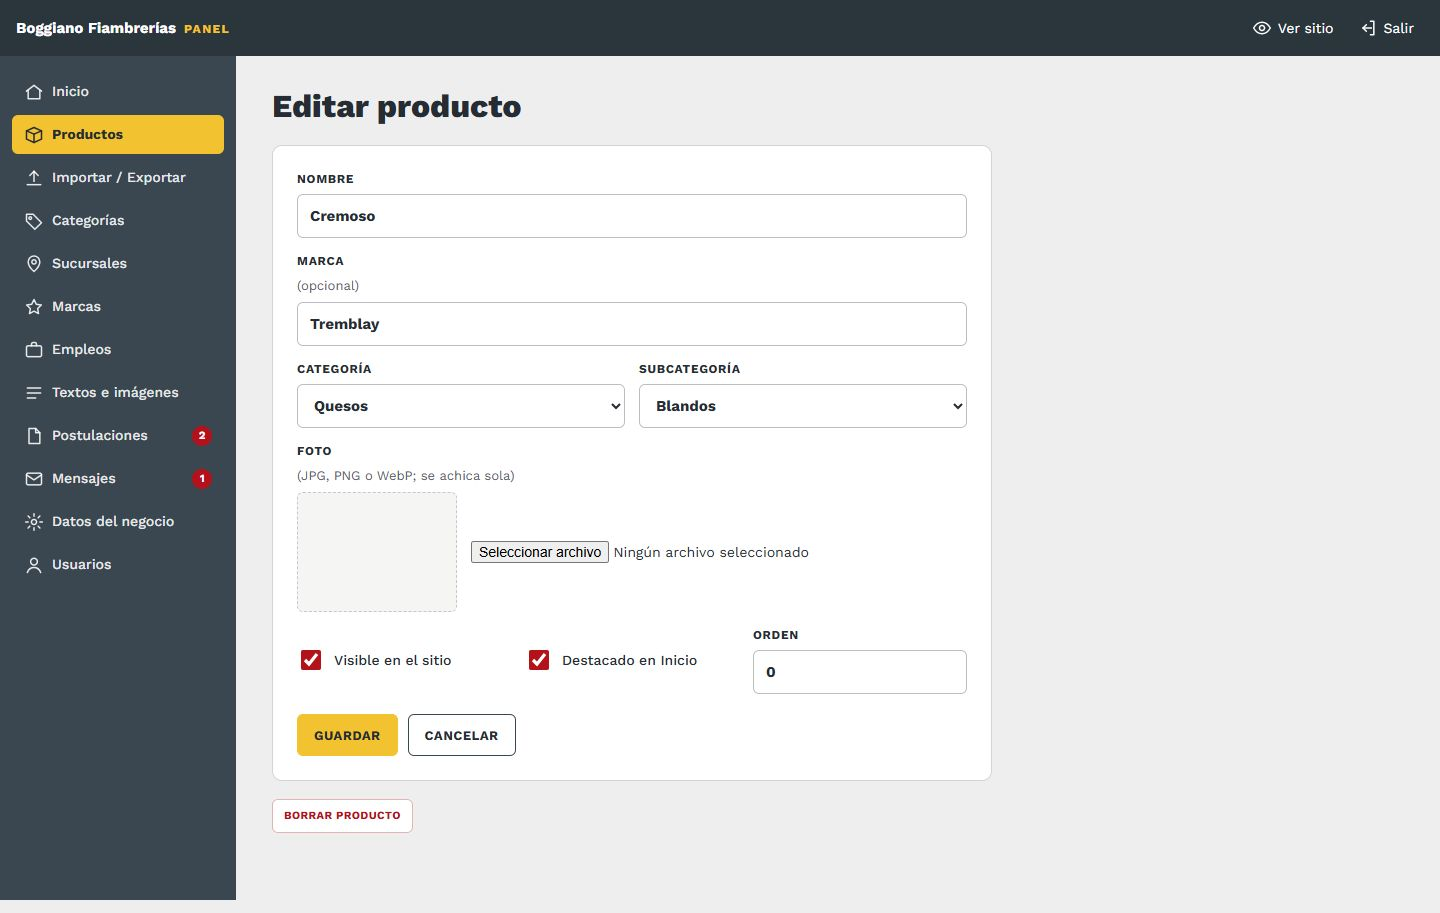
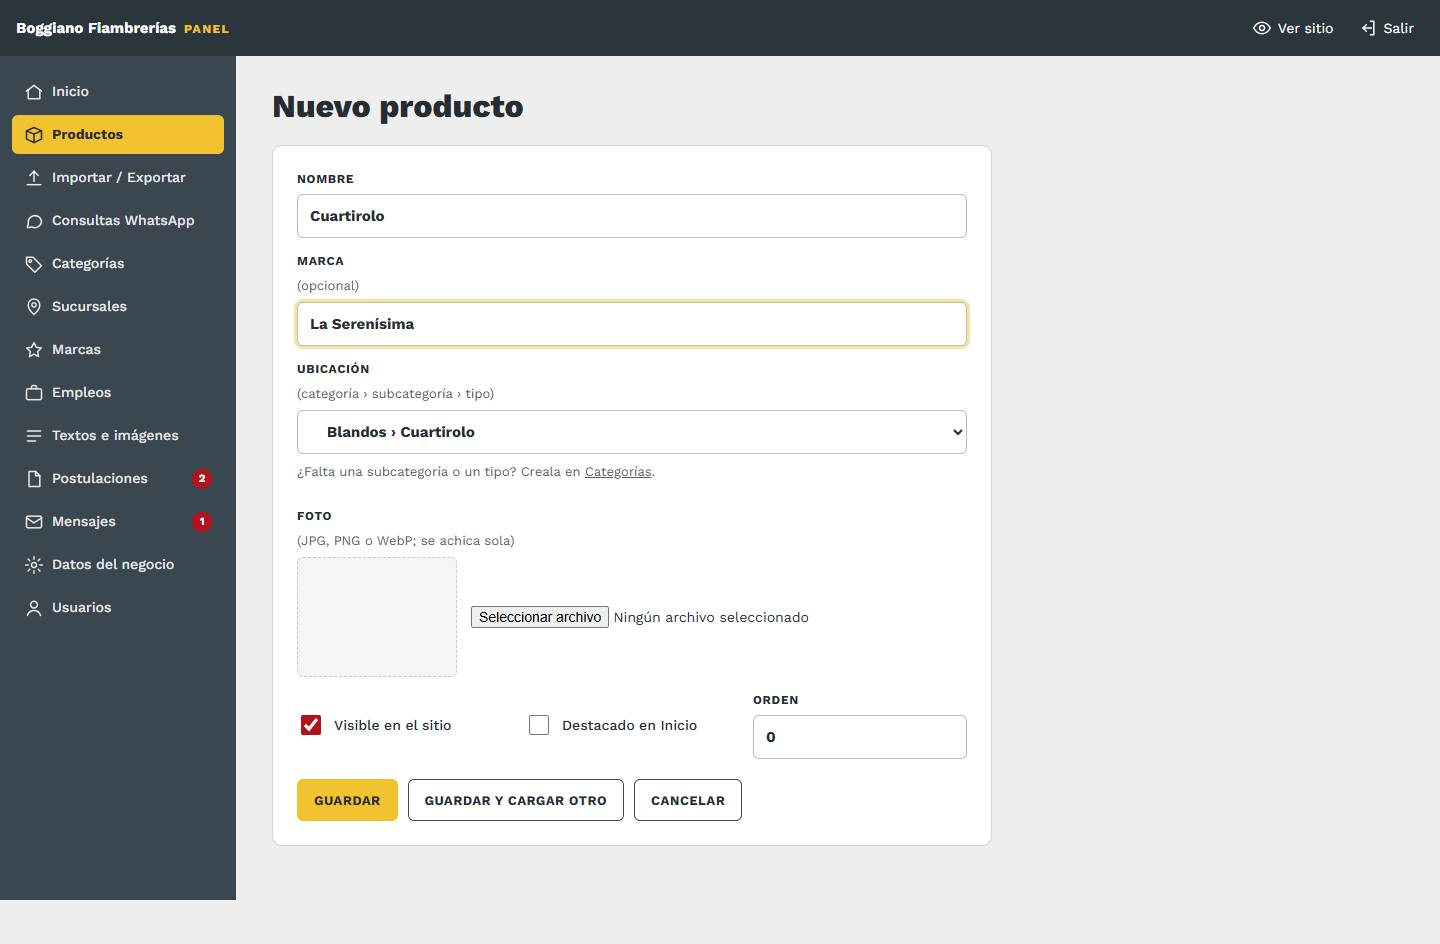
Guía: productos en tres niveles (categoría › subcategoría › tipo), árbol plegable, acciones en lote, columna tipo y textos agrupados

diff --git a/guia/03-productos.md b/guia/03-productos.md
@@ -6,14 +6,28 @@
 
 ![Lista de productos](../img/productos.jpg)
 
-## La lista
+## La lista: un árbol plegable
 
-- **Buscar:** por nombre o marca.
-- **Filtros:** por categoría, y las casillas **Sin foto** y **Ocultos** para ver solo esos.
+Los productos están ordenados como en el sitio, en **tres niveles**: **categoría › subcategoría › tipo** (ej. Quesos › Blandos › Cremoso). Cada nivel se abre y se cierra tocando su nombre, y muestra cuántos productos tiene. Así no hace falta scrollear todo el catálogo: abrís solo la parte que estás tocando.
+
+- **Abrir todo / Cerrar todo:** arriba a la derecha. El panel **recuerda qué dejaste abierto** para la próxima vez.
+- **+ Nuevo acá:** en cada nivel. Abre un producto nuevo que ya viene con esa categoría, subcategoría o tipo elegidos.
+- **Buscar:** por nombre o marca. Con las casillas **Sin foto** y **Ocultos** ves solo esos. Al filtrar, se abren solas las partes donde hay resultados.
 - **Visible / Oculto:** tocá la etiqueta para cambiarlo en el momento.
 - **★ Destacado:** tocá la estrella para marcarlo o desmarcarlo.
-- **Orden:** cambiá los números y tocá **Guardar orden**. El menor va primero.
-- **Editar:** abre el producto.
+- **Editar:** tocá el nombre del producto.
+
+### Cambiar muchos de una vez
+
+Tildá la casilla de cada producto (o **"Elegir los N de…"** para tomar todos los de una categoría, subcategoría o tipo). Abajo aparece una barra oscura con lo que podés hacer con los elegidos:
+
+| Botón | Qué hace |
+|---|---|
+| **Mover** | Los pasa a la categoría, subcategoría o tipo que elijas en la lista de al lado |
+| **Ocultar / Mostrar** | Los saca del sitio o los vuelve a mostrar |
+| **★ Destacar / Quitar ★** | Los marca o desmarca como destacados |
+| **Borrar** | Los borra con sus fotos. Pide confirmación y **no se puede deshacer** |
+| **Ninguno** | Destilda todo |
 
 ## Cargar o editar un producto
 
@@ -25,14 +39,13 @@ Tocá **+ Nuevo producto** o **Editar**.
 |---|---|
 | **Nombre** | Obligatorio. Ej: "Jamón crudo" |
 | **Marca** | Opcional. Se muestra debajo del nombre y entra en el buscador |
-| **Categoría** | Obligatoria. Define en qué filtro del catálogo aparece |
-| **Subcategoría** | Opcional. Solo aparecen las de la categoría elegida |
+| **Ubicación** | Obligatoria. Una sola lista con todo: la categoría sola ("Quesos (sin subcategoría)"), una subcategoría ("Blandos") o un tipo ("Blandos › Cremoso"). Si falta una subcategoría o un tipo, se crea en [Categorías](05-categorias.md) |
 | **Foto** | JPG, PNG o WebP, de hasta 15 MB. **Se achica sola** para que el sitio cargue rápido. "Quitar la foto" la borra |
 | **Visible en el sitio** | Destildado, el producto no se ve, pero queda guardado |
 | **Destacado en Inicio** | Lo muestra en "Los que más salen" |
 | **Orden** | Posición dentro del catálogo (menor primero) |
 
-- **Guardar y cargar otro:** solo en productos nuevos. Guarda y deja el formulario vacío para seguir cargando.
+- **Guardar y cargar otro:** solo en productos nuevos. Guarda y deja el formulario vacío, **con la misma ubicación**, para seguir cargando productos del mismo tipo.
 - **Borrar producto:** abajo de todo, en rojo. **No se puede deshacer.** Si solo querés que no se vea, destildá "Visible".
 
 ## Qué cambia en el sitio
@@ -40,7 +53,7 @@ Tocá **+ Nuevo producto** o **Editar**.
 | Lo que tocás | Dónde se nota |
 |---|---|
 | Nombre, marca, foto | La tarjeta del producto en **Productos**, y en Inicio si es destacado |
-| Categoría / subcategoría | En qué filtro aparece, y el conteo de productos de cada categoría en Inicio |
+| Ubicación | En qué filtro del catálogo aparece (categoría, subcategoría y tipo), y el conteo de productos de cada categoría en Inicio |
 | Visible | Aparece o desaparece del catálogo, del buscador y de Inicio |
 | Destacado | **Los primeros 4** destacados, según el orden, salen en Inicio, en "Los que más salen", con la etiqueta roja *Destacado* |
 | Orden | El orden de las tarjetas en el catálogo y cuáles 4 destacados se ven en Inicio |

diff --git a/guia/05-categorias.md b/guia/05-categorias.md
@@ -6,7 +6,7 @@
 
 ![Categorías](../img/categorias.jpg)
 
-La lista muestra cada categoría con su **estado** (Visible u Oculta), cuántas subcategorías y productos tiene, en qué columna del menú aparece y su orden. Tocando el número de productos, vas a esos productos filtrados.
+La lista muestra cada categoría con su **estado** (Visible u Oculta), cuántas subcategorías, tipos y productos tiene, en qué columna del menú aparece y su orden. Tocando el número de productos, vas a esos productos filtrados.
 
 ## Ocultar una categoría que no usás
 
@@ -26,18 +26,28 @@ Tocá la etiqueta **Visible** de la lista (pasa a **Oculta**), o destildá **Vis
 | **Ícono** | El dibujo de la tarjeta en Inicio, y el de los productos de esa categoría que no tienen foto |
 | **Columna del menú** | En cuál de las **4 columnas** del desplegable "Productos" aparece |
 | **Orden** | El orden de los filtros, de las tarjetas de Inicio y del pie (menor primero) |
-| **Subcategorías** | Los filtros chicos debajo de la categoría en el catálogo, y la lista del desplegable |
+| **Subcategorías y tipos** | Los filtros debajo de la categoría en el catálogo (una fila para subcategorías y, si la subcategoría tiene tipos, otra fila más abajo), y la lista del desplegable |
 
 ![Menú desplegable de productos](../img/sitio-menu-productos.jpg)
 
 *El desplegable "Productos" del sitio: cada categoría con sus subcategorías, en la columna elegida.*
 
-## Subcategorías
+## Subcategorías y tipos (tres niveles)
+
+Los productos se ordenan en **categoría › subcategoría › tipo**. Por ejemplo: **Quesos › Blandos › Cremoso**. Los tipos son **opcionales**: una subcategoría sin tipos funciona como siempre.
+
+En la pantalla de edición, cada subcategoría está en un recuadro, con sus tipos debajo (marcados con ↳). El número a la derecha es cuántos productos tiene cada una.
 
 - **Renombrar:** cambiá el texto y guardá. Los productos que la tenían la siguen teniendo.
-- **Agregar:** usá los campos vacíos de "Nueva subcategoría". Hay 3 por vez: si necesitás más, guardá y volvé a entrar.
-- **Borrar:** dejá el campo **vacío** y guardá. Los productos que la tenían quedan sin subcategoría, pero no se borran.
+- **Agregar un tipo:** escribilo en el campo "Nuevo tipo dentro de…" de esa subcategoría y guardá.
+- **Agregar una subcategoría:** usá los campos "Nueva subcategoría" del final. Para ponerle tipos, guardala y volvé a entrar.
+- **Borrar:** dejá el campo **vacío** y guardá. **Sus productos suben un nivel, no se borran:** los de un tipo pasan a su subcategoría, y los de una subcategoría quedan en la categoría sola (si la subcategoría tenía tipos, también se borran).
 - **El orden** en que aparecen es el orden de la lista.
+- **Qué producto va en cada una** se elige en el producto (campo **Ubicación**) o de a muchos con **Mover** en la lista de [Productos](03-productos.md).
+
+En el catálogo, al elegir una subcategoría con tipos aparece una **tercera fila de filtros** con sus tipos. El link queda así: `/productos?cat=quesos&sub=Blandos&tipo=Cremoso`.
+
+![Filtros de tres niveles en el catálogo](../img/sitio-tipos.jpg)
 
 ## Nueva categoría y borrar
 

diff --git a/guia/04-importar-exportar.md b/guia/04-importar-exportar.md
@@ -16,6 +16,7 @@ Lo más fácil: tocá **Descargar plantilla vacía**, abrila en Excel y completa
 | `categoria` | Sí | Una categoría que **ya exista** en el panel. Da igual si va con mayúsculas o acentos: "Quesos", "quesos" o "QUESOS" |
 | `marca` | No | Marca del producto |
 | `subcategoria` | No | Si no existe dentro de esa categoría, **se crea sola** |
+| `tipo` | No | El tercer nivel, dentro de la subcategoría (ej. Quesos › Blandos › **Cremoso**). Si no existe, **se crea solo**. Necesita que la fila tenga `subcategoria`: si no, la fila marca error |
 | `destacado` | No | `si` / `no`. Vacío = no |
 | `visible` | No | `si` / `no`. Vacío = sí |
 | `orden` | No | Un número |
@@ -42,7 +43,7 @@ Para el "sí" también sirven `s`, `x`, `1` o `verdadero`.
 | Resultado | Qué significa |
 |---|---|
 | **Nuevo** | Se va a crear |
-| **Actualiza** | Ya existe un producto con ese **nombre y marca**, y se actualizan su categoría, subcategoría, destacado, visible y orden |
+| **Actualiza** | Ya existe un producto con ese **nombre y marca**, y se actualizan su categoría, subcategoría, tipo, destacado, visible y orden |
 | **Se saltea** | Ya existe y elegiste "solo agregar", o está repetido dentro de la misma planilla |
 | **Error** | Falta el nombre, o la categoría no existe. Esa fila no entra |
 
@@ -52,7 +53,7 @@ Si está bien, tocá **Importar N productos**. Si no, **Cancelar**: corregí la 
 
 - **Cuándo un producto "ya existe":** cuando coinciden el **nombre y la marca**. No importan las mayúsculas ni los acentos ("Jamón Crudo" = "jamon crudo"). Si cambiás el nombre en la planilla, el panel lo toma como un producto nuevo.
 - **Fotos:** la importación no carga fotos. Se suben después, en cada producto ([Productos](03-productos.md)).
-- **Categorías:** las que no existen no se crean solas: creala antes en [Categorías](05-categorias.md). Las subcategorías sí se crean solas.
+- **Categorías:** las que no existen no se crean solas: creala antes en [Categorías](05-categorias.md). Las subcategorías y los tipos sí se crean solos.
 - **La vista previa vence** si la dejás abierta más de un día. Subí la planilla de nuevo.
 
 ## Exportar

diff --git a/guia/10-textos-e-imagenes.md b/guia/10-textos-e-imagenes.md
@@ -8,7 +8,9 @@
 
 ![Textos de Inicio](../img/textos.jpg)
 
+- **Los campos están agrupados por sección de la página** (Portada, Motivos, Secciones…), cada una plegable, para no tener que scrollear todo. Cada sección muestra cuántos campos tiene y, en amarillo, **cuántos cambiaste** respecto del texto original. **Abrir todo / Cerrar todo** arriba.
 - **Cada campo dice dónde aparece.** Por ejemplo, "Portada · título" o "Motivo 2 · texto".
+- **El botón Guardar textos queda fijo abajo,** siempre a mano mientras bajás.
 - **Si dejás un campo vacío,** vuelve el texto original. Así no hay forma de romper nada: siempre podés volver atrás.
 - **Los saltos de línea se respetan** en los textos largos.
 - **Guardar textos** guarda la pestaña entera. Después tocá **Ver la página** para revisar cómo quedó.
